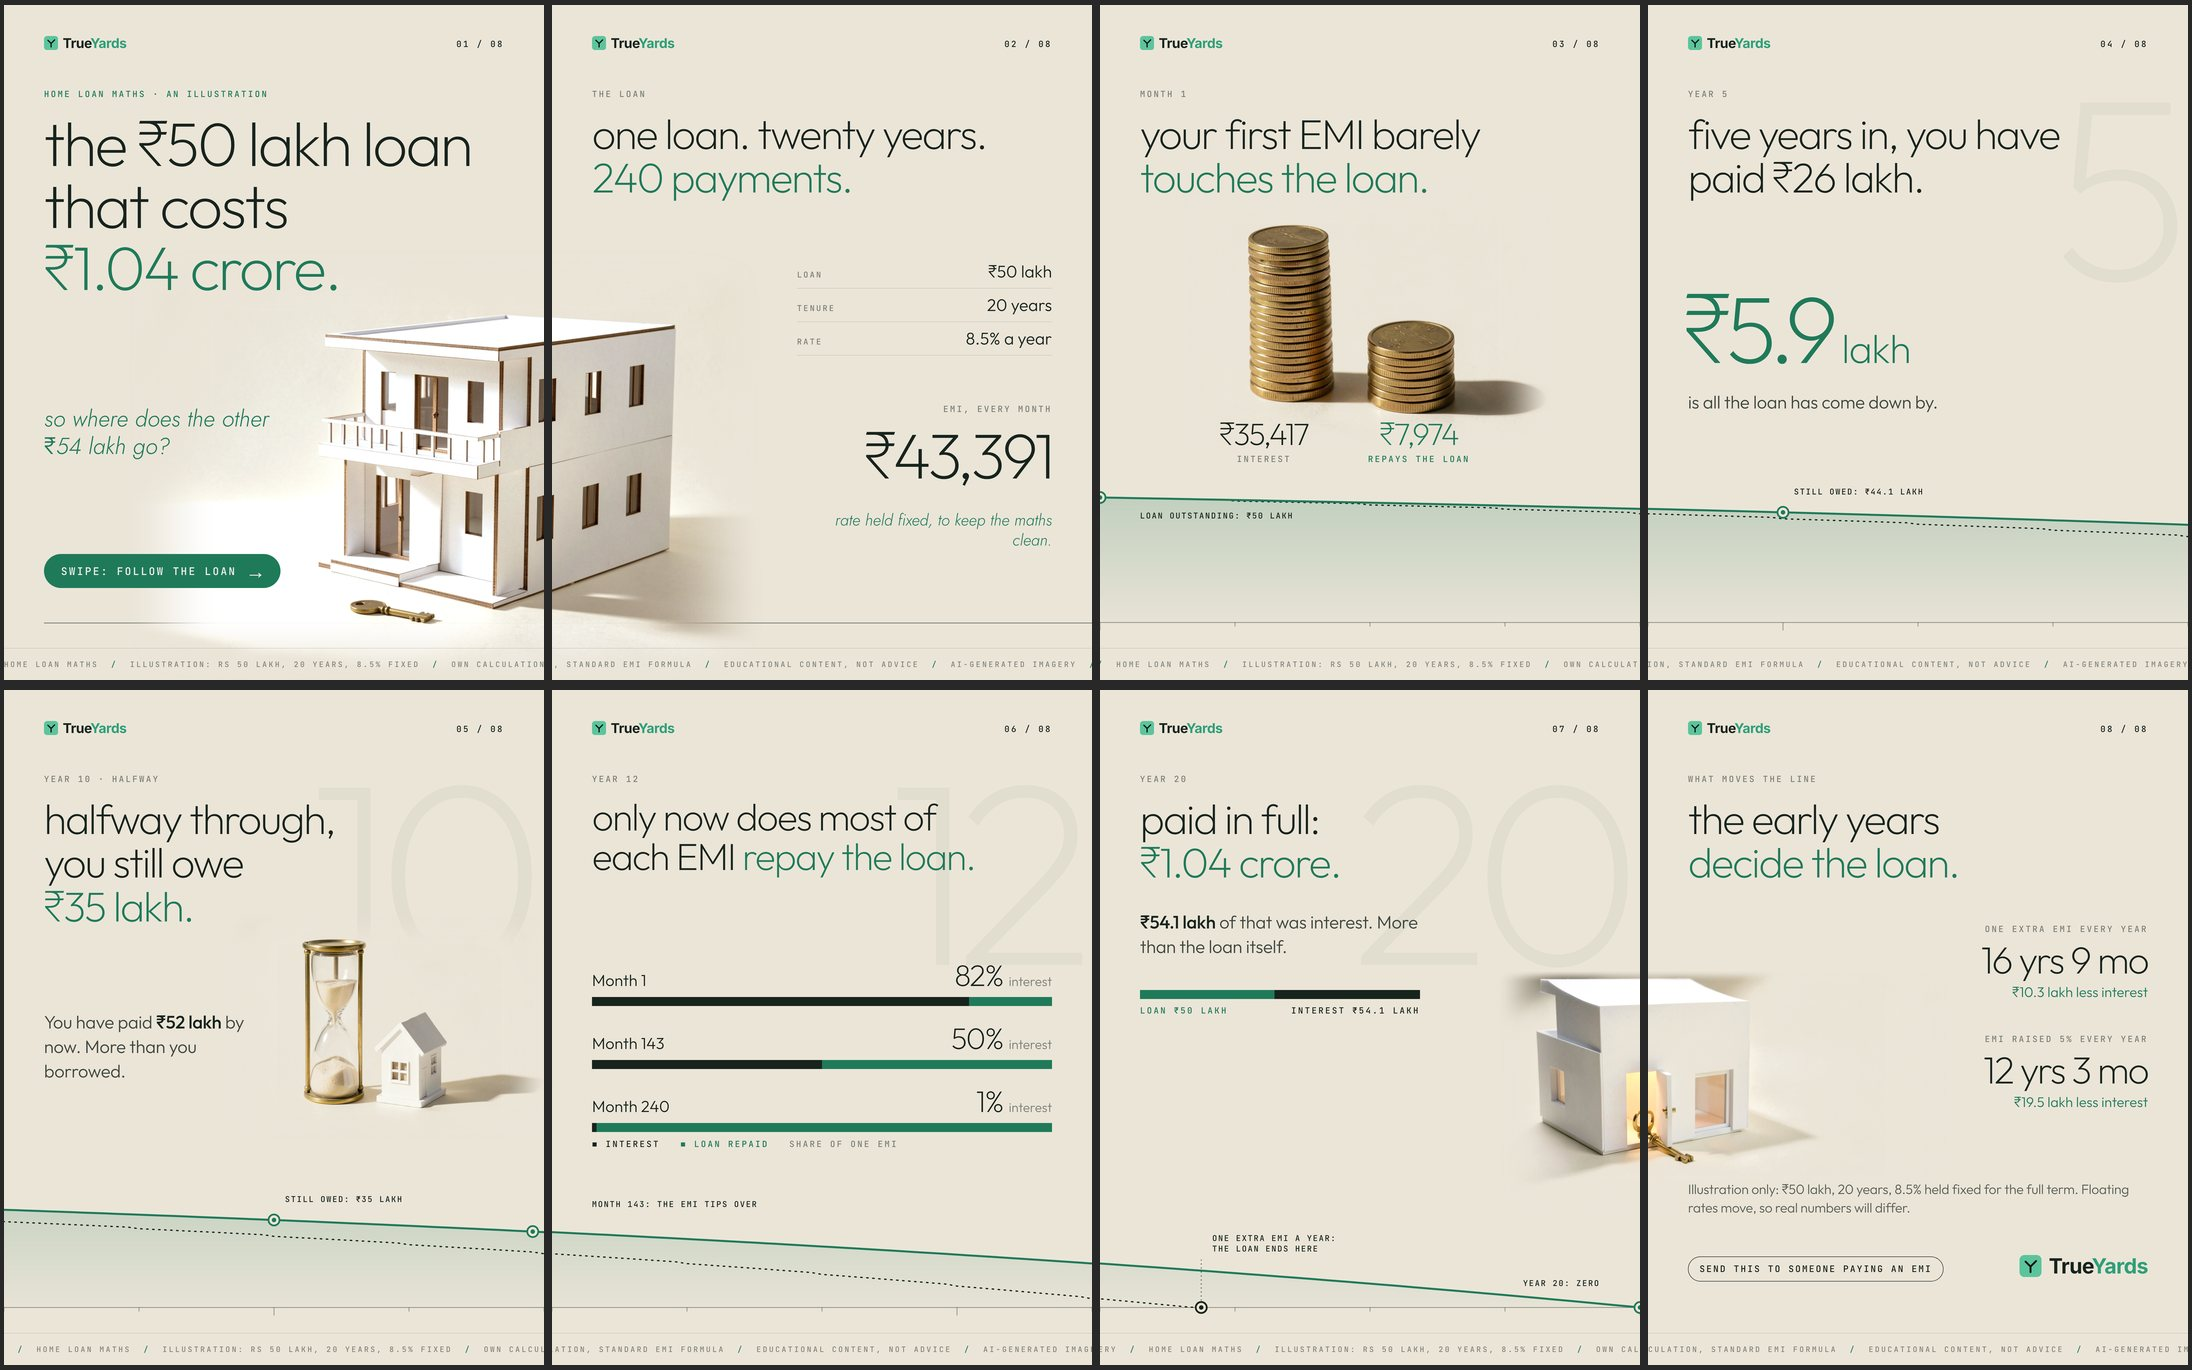
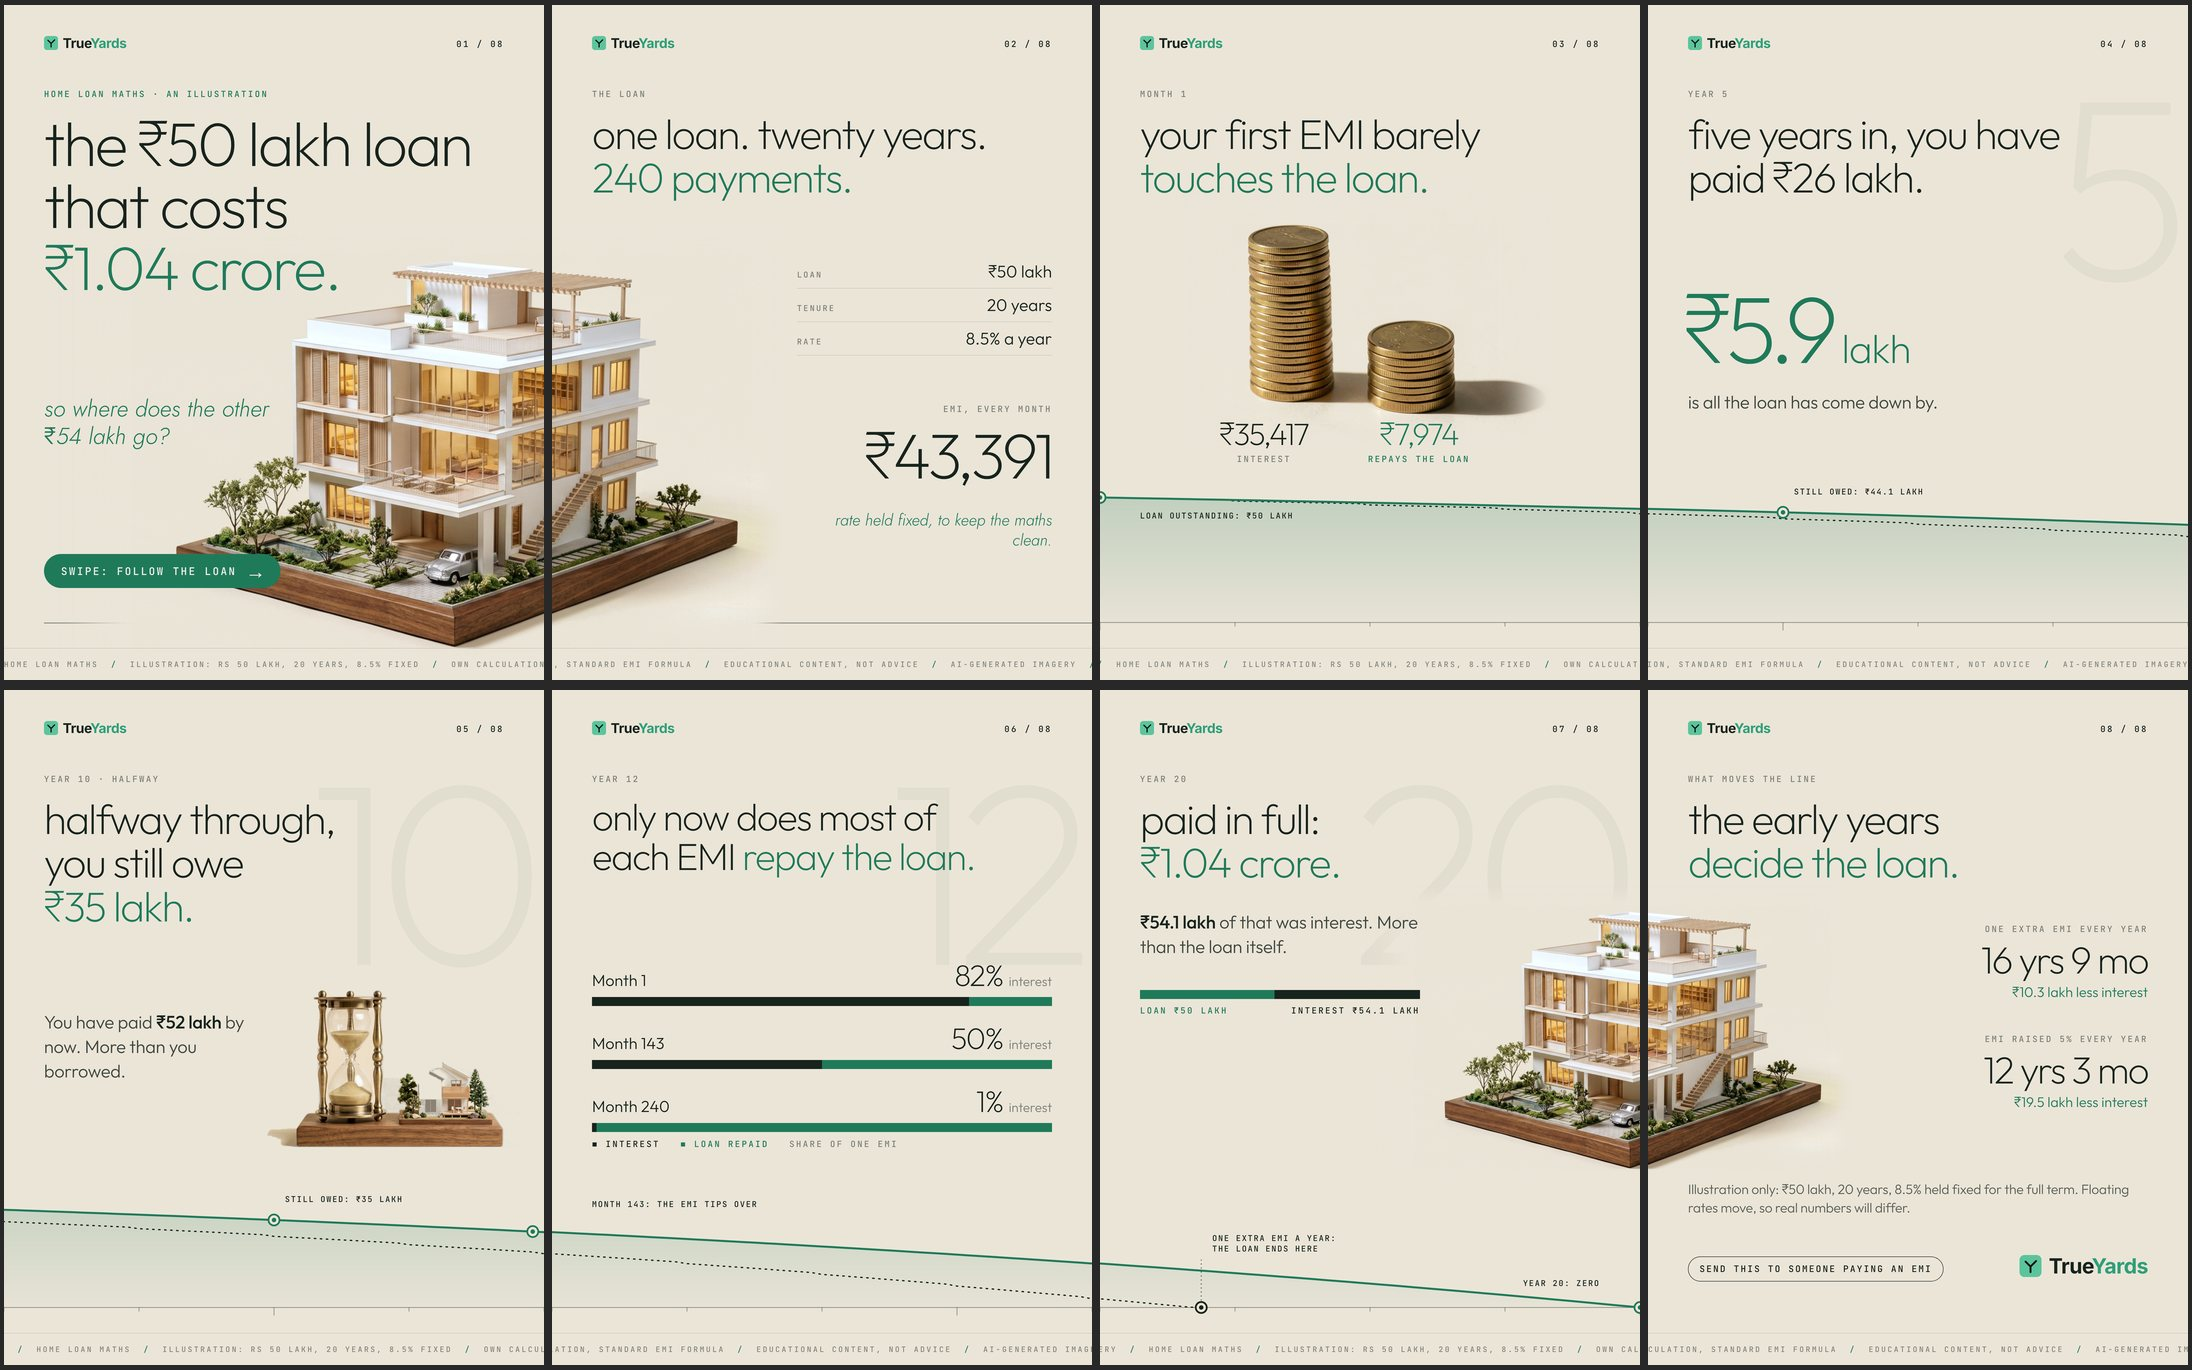
Add reel hook and virality playbook
Claude-Session: https://claude.ai/code/session_01KcYSHrnAmBoJxKFGe6gHQA

Changed region(s): [[0.0, 0.1839, 0.3412, 0.4905], [0.6515, 0.6438, 0.8376, 0.8584], [0.1241, 0.6745, 0.2482, 0.8584]]

diff --git a/REEL_HOOKS_PLAYBOOK.md b/REEL_HOOKS_PLAYBOOK.md
@@ -1,0 +1,119 @@
+# TrueYards Reel Hook and Virality Playbook
+
+Every reel gets checked against this before render and again before publish. If a rule is broken, rewrite before shipping.
+
+## 1. What Instagram actually rewards (ranking signals)
+
+- **Watch time** is signal one. Instagram measures it on every reel.
+- **Sends per reach** (DM shares) is signal two. It weighs most for reaching non-followers, and Instagram now leans on sends more than on comments.
+- **Likes per reach** is signal three. It matters more for reach among followers.
+- **Skip rate** is the share of viewers who swipe away in the first 3 seconds. A high skip rate kills distribution before anything else is measured.
+- **Originality.** Reposted or aggregated content gets no recommendations. Original edits get pushed.
+- **Length.** 30 to 60 seconds gets the best reach rate. Longer works only if retention holds.
+
+So one reel has three jobs, in order:
+1. Survive second 3.
+2. Hold to the end.
+3. Be worth sending to someone.
+
+## 2. Why the first 3 seconds are everything
+
+- Of people who watch 3 seconds, about 65% reach 10 seconds and about 45% reach 30 seconds (Meta data). Lose them at second 2 and the rest of the edit never gets seen.
+- No movement in the first second gives about 23% retention. Camera plus subject movement gives about 52%.
+- About 40% or more of viewers watch with the sound off. The hook has to work silent, which means the text is on screen in frame 0.
+- Never open on a logo, a black screen, a fade-in, a "hi guys", or context-setting. Start in the middle of the action.
+
+## 3. The hook stack (0 to 3 s)
+
+A hook is three layers that land together:
+
+| Layer | Rule | Timing |
+|---|---|---|
+| Visual | A real image that shows the tension, already moving (push-in, whip, slam, split). Frame 0 must make sense paused. | 0.0 s |
+| On-screen text | 3 to 6 words, huge, high contrast, centre-top. States the conflict or the number. | 0.0 s, fully readable by 0.3 s |
+| Spoken line | 5 to 10 words. The conflict lands by 1.5 s. No intro words ("so", "today", "did you know"). | starts at 0.0 to 0.2 s |
+
+Then there's a **pattern interrupt at about 1.5 to 2.5 s**: a cut, a reveal, a number change, or a beat drop. It gives a second reason to stay right when the thumb is deciding.
+
+### Frame-0 test (mandatory)
+Pause the reel at frame 0 and ask:
+1. Without sound, do I know what the tension is?
+2. Is there something real (a place, a number) I want explained?
+3. Is it visually different from the last 3 things in a feed?
+
+All three must be yes.
+
+## 4. Hook archetypes that work for property and money
+
+Pick one per reel. Rotate them across reels.
+
+1. **Contradiction.** Two true facts that seem impossible together. "India's capital. Almost no skyscrapers."
+2. **Number slam.** A shocking number on screen in frame 0. "₹50,000 → ₹88 crore."
+3. **Visual contrast or split.** The same distance or price, with two worlds side by side (Delhi flat vs Gurgaon towers).
+4. **Forbidden or hidden.** "This is illegal to build in Delhi." "The rule nobody tells you."
+5. **Stakes for the viewer.** "If you're buying in Noida, watch this before you pay."
+6. **Countdown or list promise.** "3 reasons Delhi can't build up." This sets an open loop with a visible end.
+7. **Myth bust.** "Delhi doesn't lack money. It lacks permission."
+8. **Time jump.** "In 1931 this was planned. In 2026 the rule changed."
+
+What makes a hook weak:
+- a question the viewer can answer instantly
+- a topic statement with no tension ("Let's talk about Delhi's skyline")
+- a slow zoom on a nice but generic photo
+- text that appears after 0.5 s
+
+## 5. Story structure after the hook
+
+**Hook (0 to 3 s) → Open loop (3 to 6 s) → Escalating beats → Twist or payoff → Loop ending**
+
+- **Open loops** come from curiosity, which is an information gap (Loewenstein). Name the gap early ("3 reasons", "and the third one surprised me") and close it late. Nest a smaller loop inside the big one.
+- **Escalate.** Each beat should be bigger or stranger than the last. Save the best fact for the last third.
+- **Always pay off.** If the hook promises something and the reel doesn't deliver it, people stop trusting you and stop sending.
+- **Don't signal the end.** No "so that's it", no outro card that tells people to leave.
+
+## 6. Pacing and retention
+
+- Change something visual every 1.5 to 3 s: a cut, a zoom, a text change, an overlay or a number.
+- One idea per screen. Keep on-screen text to 7 words or fewer per line.
+- Words reveal at the voice's timestamps, so the text never leads or lags the voice.
+- Voice uses short phrases with natural pauses capped at about 0.4 s. There's never dead air longer than 0.6 s.
+- Music sits about 10 dB under the voice. Use a beat drop for the pattern interrupt and at the twist.
+- Use **real photos of real places** whenever the story names a real place. Use AI images only for abstractions or the future, and label them "AI visual".
+
+## 7. Share triggers (why someone hits send)
+
+Based on STEPPS (Berger) and the NYT sharing study (Berger and Milkman):
+- **High-arousal emotion** gets shared: awe, surprise, anger at an unfair rule, anxiety about money. Sadness and calm get the least sharing.
+- **Social currency.** "I knew this before you." A non-obvious fact about a city people live in.
+- **Practical value.** Something that changes a buying or renting decision.
+- **Triggers.** Tie it to something people see daily (the metro, their rent, the airport).
+- **Identity and local pride.** Delhi vs Gurgaon vs Noida debates make people tag friends.
+
+End with a **send prompt that's a question with a side to pick**: "Would you live on the 50th floor in Delhi?" or "Send this to your friend who still says Gurgaon is better."
+
+## 8. Loop endings
+
+- The last frame should flow back into frame 0, using the same image or completing the opening sentence. Rewatches count as watch time.
+- Give the question or CTA in the last 2 s, then cut. No 3-second branded tail.
+
+## 9. Testing (Trial Reels)
+
+- Use Trial Reels (shown to non-followers only for about 72 h) to A/B test two hooks on the same body.
+- Change only the first 3 seconds between variants.
+- The winner is the variant with the lower skip rate and higher sends per reach, not the one with more likes.
+- Log results in `drafts/<reel>/results.md` and promote the winning hook pattern in this file.
+
+## 10. Pre-publish QA checklist
+
+- [ ] Frame 0 passes the paused, sound-off test
+- [ ] Text is visible at 0.0 s, 6 words or fewer, inside the safe zone (top 250 px and bottom 400 px kept clear of UI)
+- [ ] Spoken conflict lands by 1.5 s
+- [ ] Pattern interrupt between 1.5 and 2.5 s
+- [ ] Visual change every 3 s or less
+- [ ] Open loop named in the first 6 s, closed near the end
+- [ ] Real place = real photo, credited; AI images labelled
+- [ ] Every number checked against a source, with sources in fine print or the caption
+- [ ] Ends on a pick-a-side question or send prompt, loops cleanly
+- [ ] 30 to 60 s total
+- [ ] Education only, no buy/sell calls, 5 hashtags or fewer, no em dashes
+- [ ] Visual style is different from the last reel

diff --git a/PLAYBOOK.md b/PLAYBOOK.md
@@ -72,3 +72,6 @@ Seasonal overrides: Union Budget (1 Feb), RBI policy days, ITR season (July), fe
 - Music: ElevenLabs Music bed per reel, ducked about 10 dB under the voice, lifting in pauses.
 - Cloud jobs: push a JSON list to jobs/*.json (kinds: voice, music, image, shared, addvoice, voices, models); results land in library/media/.
 - Style 3 "Height Ruler": cream/black/TrueYards green, Inter 900 + Plex Mono, block-column wipes, a persistent ruler device. Used for the Delhi skyscrapers reel.
+
+## Hooks and virality
+Full rulebook: REEL_HOOKS_PLAYBOOK.md. Every reel must pass its frame-0 test and pre-publish checklist.
